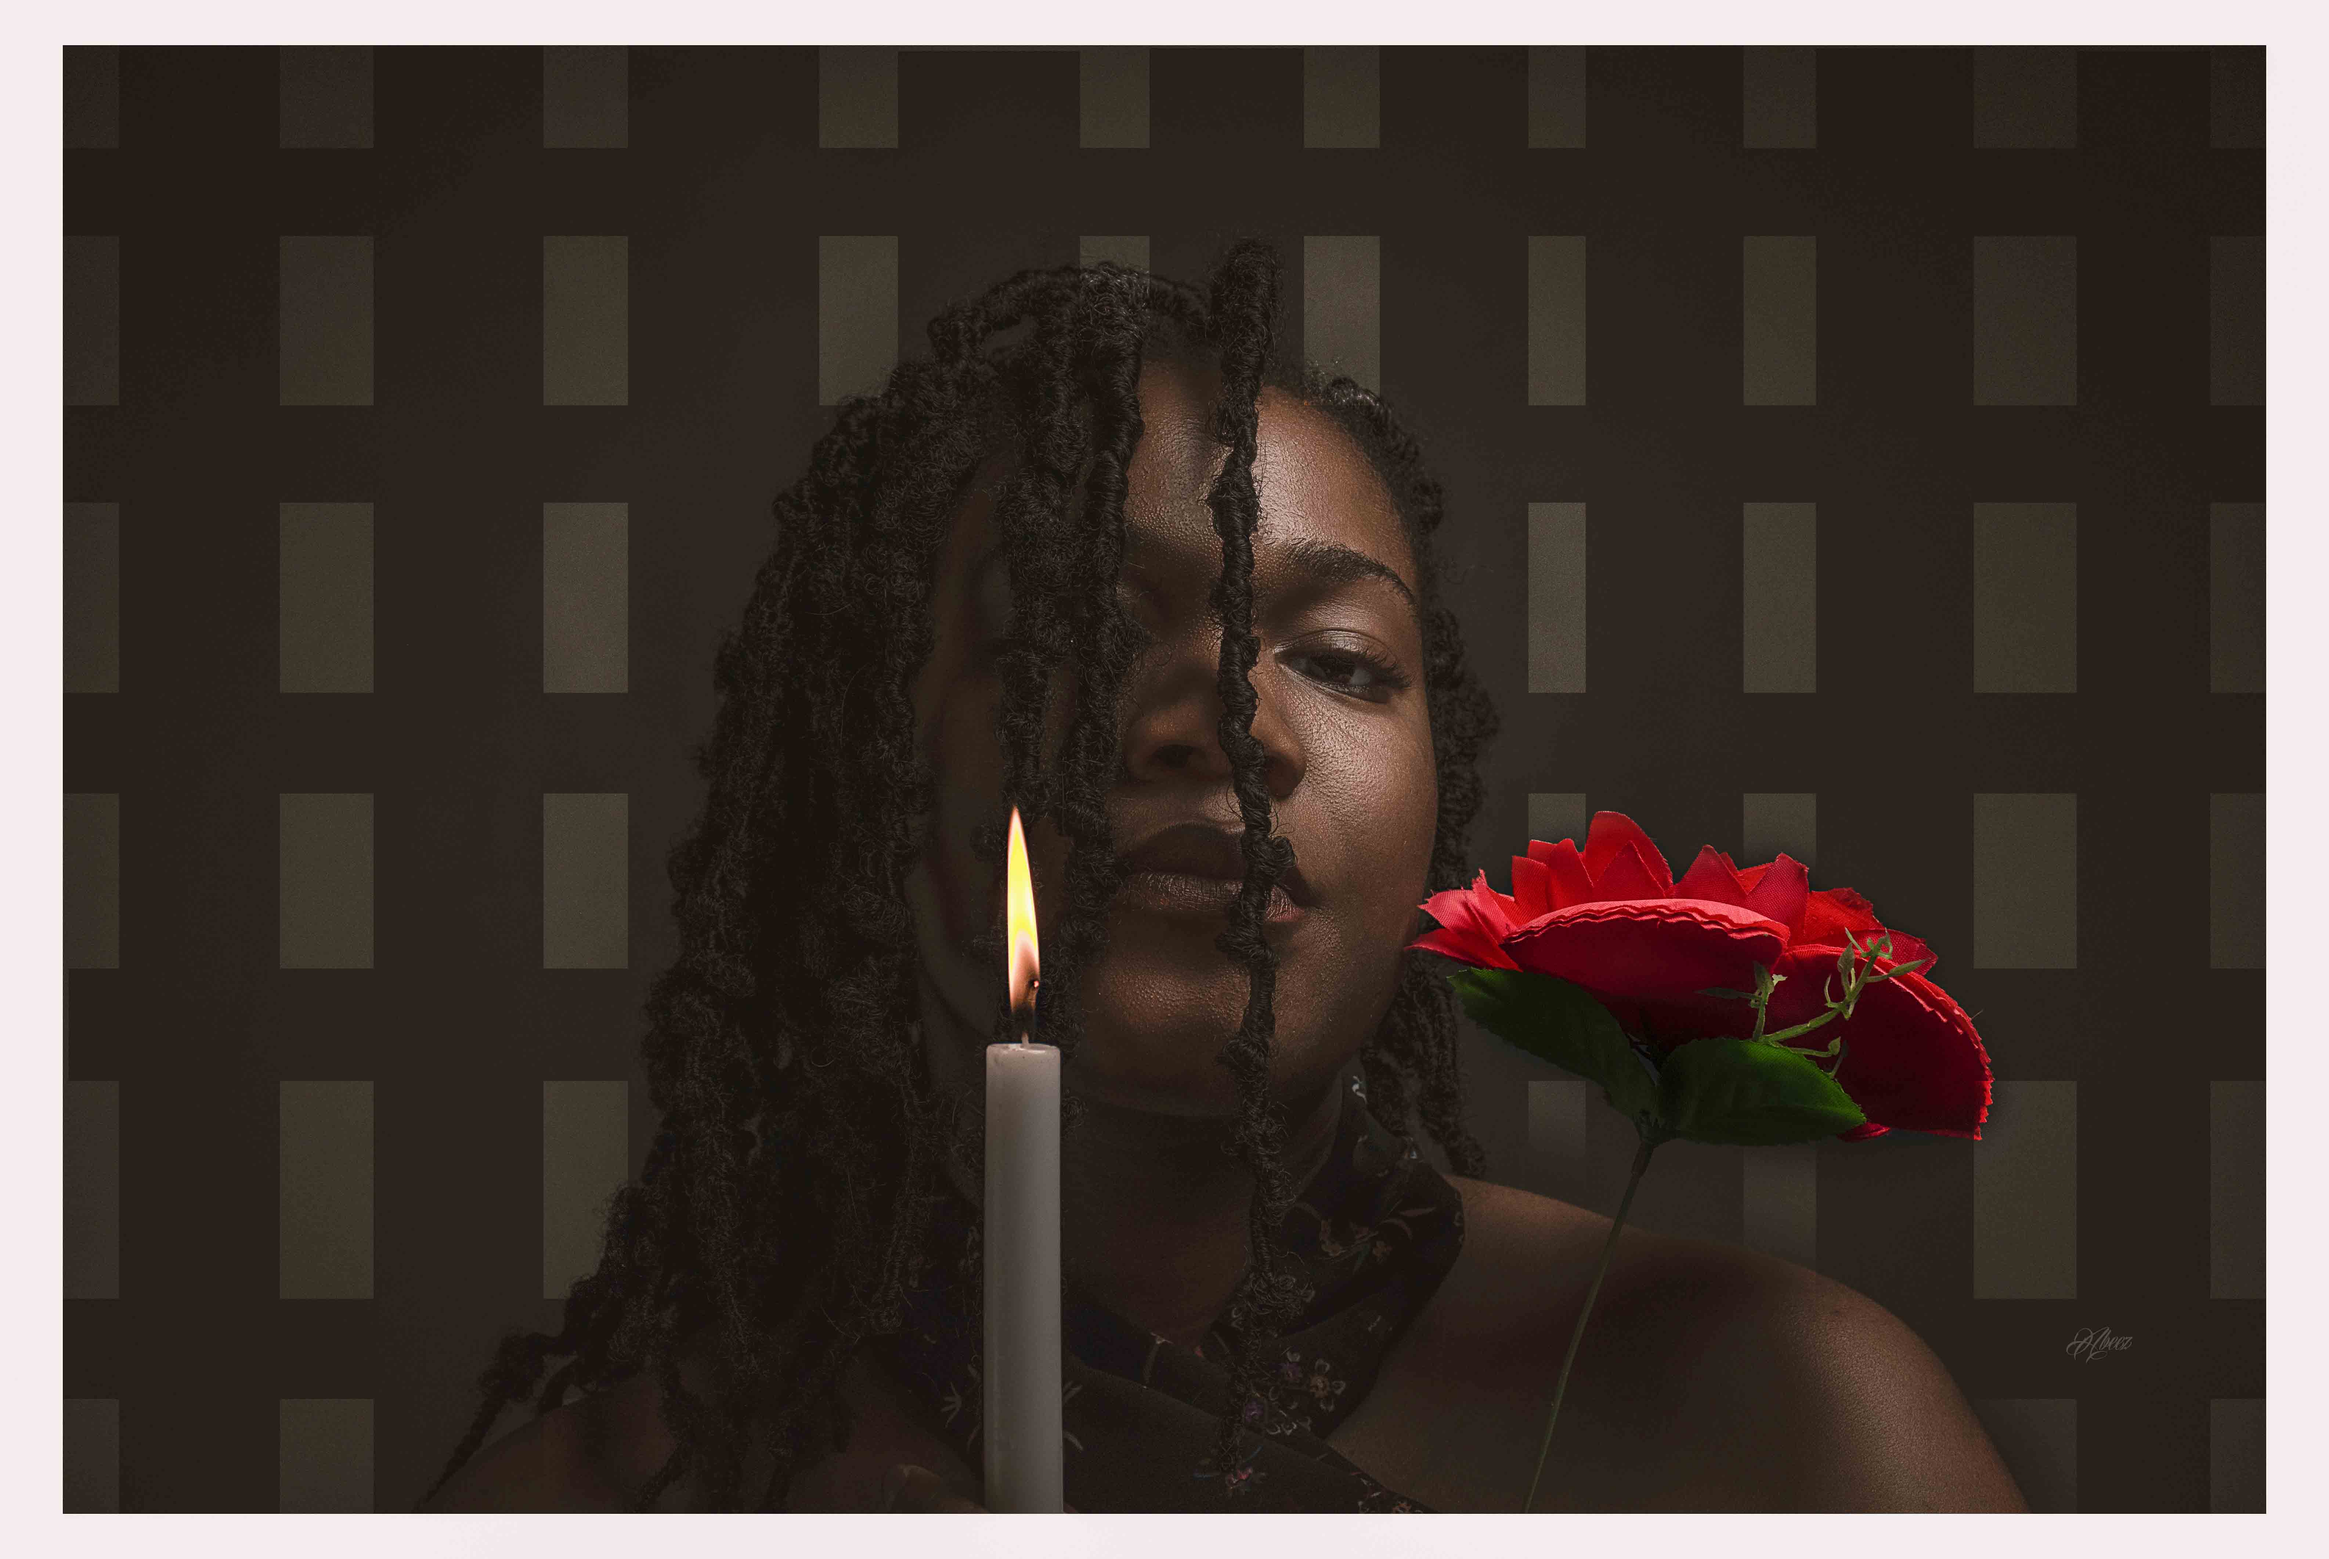
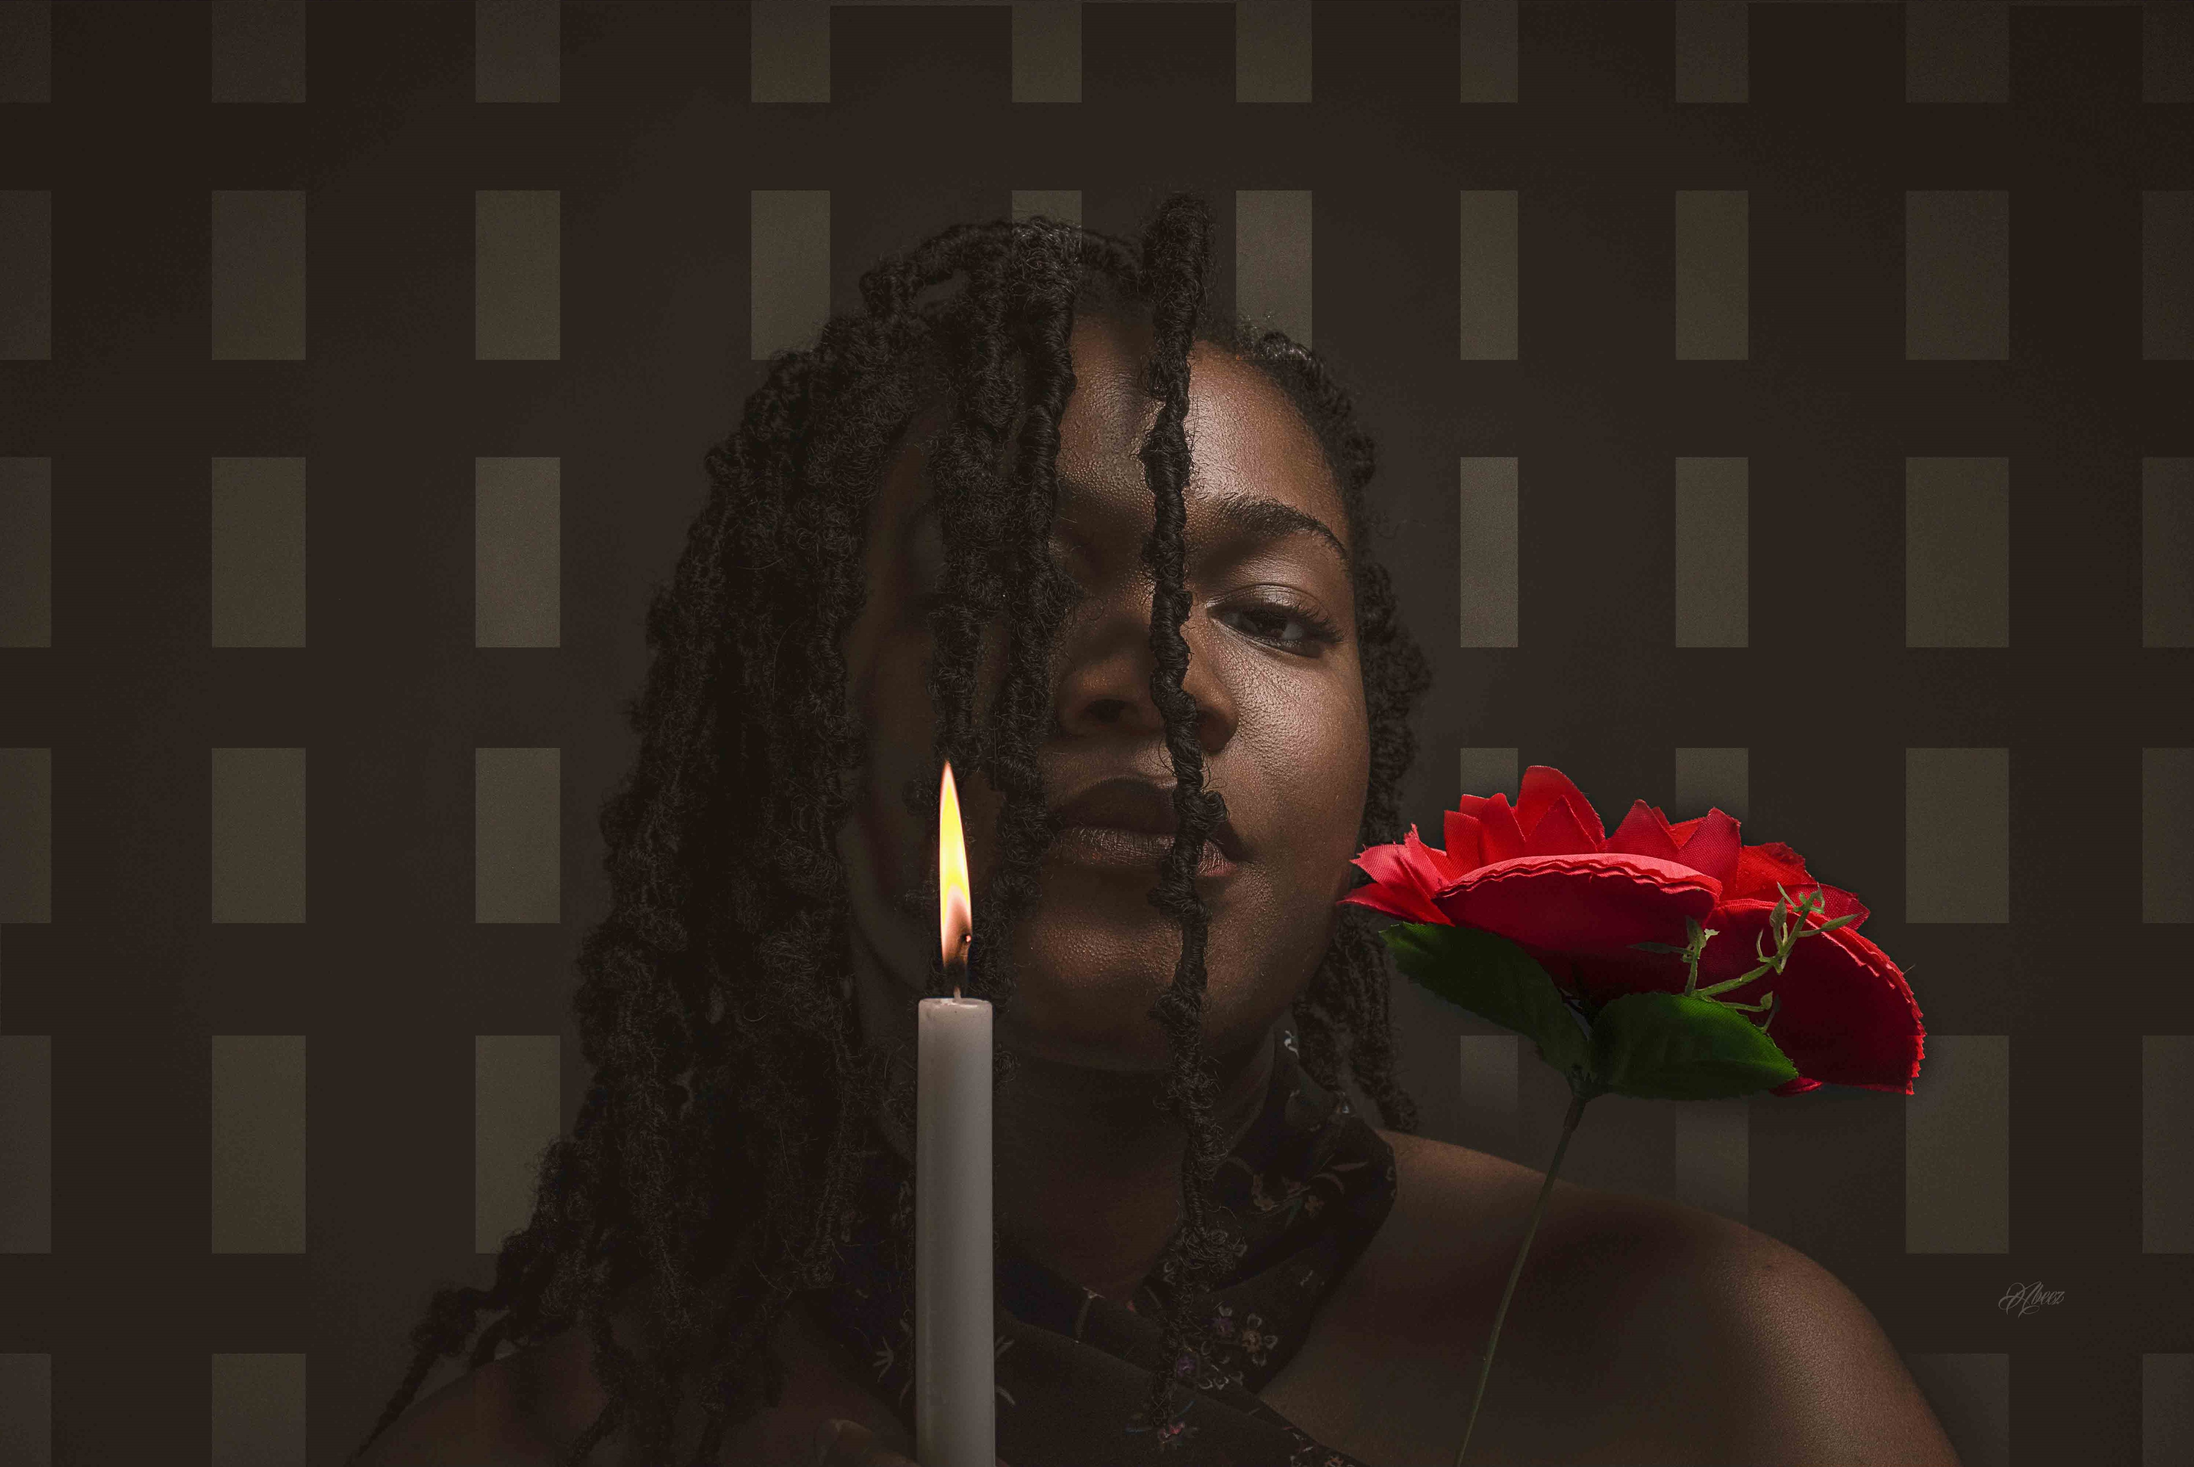
update

diff --git a/src/components/Footer.js b/src/components/Footer.js
@@ -4,7 +4,7 @@ import '../App.css'
 function Footer() {
   return (
     <>
-   <div class="fixed-bottom text-center p-3 bg-dark   ">
+   <div class=" text-center p-3 bg-dark   " height={'100vh'}>
   <div class="row ">
     <div class="col-12 ">
       <h2 id="h2" class=" text-center text-white fw-bold">UPDATES AND NEW STUFF</h2>
@@ -12,22 +12,22 @@ function Footer() {
     </div>
   </div>
   <form action="/subscribe" method="post" class="row g-3">
-    <div class="col-sm-4">
+    <div class="col-sm-4 my-4">
       <input type="text" class="form-control" name="first_name" placeholder="First Name" aria-label="First Name" required/>
     </div>
-    <div class="col-sm-4">
+    <div class="col-sm-4 my-4">
       <input type="text" class="form-control" name="last_name" placeholder="Last Name" aria-label="Last Name" required/>
     </div>
-    <div class="col-sm-4">
+    <div class="col-sm-4 my-4">
       <input type="email" class="form-control" name="email" placeholder="Email Address" aria-label="Email Address" required/>
     </div>
-    <div class="row mt-4">
+    <div class="row mt-4 my-4">
       <div class="d-flex justify-content-center col-md-5 mx-auto">
         <button type="submit" class="btn btn-light">Sign Up</button>
       </div>
     </div>
   </form>
-  <div class="row mt-5">
+  <div class="row mt-5 pb-5">
     <div class="col-12 text-center text-muted">
       Copyright &copy; 2023  All rights reserved.
     </div>

diff --git a/src/components/HomeContent.js b/src/components/HomeContent.js
@@ -1,11 +1,11 @@
 import React from 'react'
-import home from '../images/A.C.jpg'
+import home from '../images/9.jpg'
 
 function HomeContent() {
   return (
     <>
     <div>
-      <img src={home} class="img-fluid " width={'1700px'} alt="" />
+      <img src={home} class="img-fluid " width={'100%'}  alt="" />
     </div>
     </>
   )

diff --git a/src/pages/Home.js b/src/pages/Home.js
@@ -7,7 +7,7 @@ function Home() {
   return (
     <>
     <Navbar/>
-    {/* <HomeContent/> */}
+    <HomeContent/>
     <Footer/>
     </>
   )
